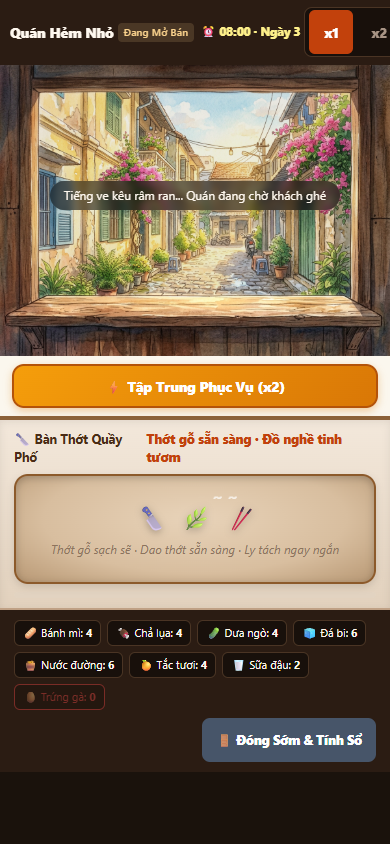
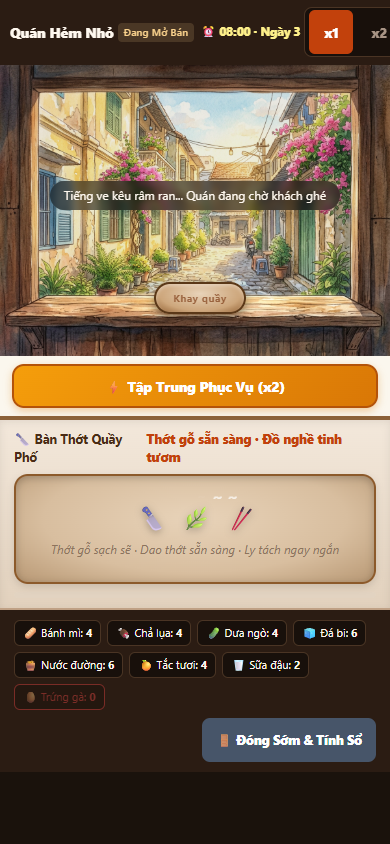
fix(art): implement counter pass tray handoff, eliminate arm overlay, align customer ORDER/RECEIVE/REACT postures, and guarantee single dish visibility

Changed region(s): [[0.3692, 0.3081, 0.6462, 0.4005]]

diff --git a/game/style.css b/game/style.css
@@ -1774,22 +1774,93 @@ button:disabled {
   filter: drop-shadow(0 4px 8px rgba(0, 0, 0, 0.4));
   pointer-events: none;
 }
-.staff-handoff-overlay {
+.teen-sprite {
+  height: 168px;
+}
+
+.customer-actor-wrap.pose-receive {
+  transform: translateX(8px) scale(1.02);
+  transition: transform 0.25s cubic-bezier(0.16, 1, 0.3, 1);
+}
+
+.customer-actor-wrap.pose-react {
+  animation: reactJoy 0.65s cubic-bezier(0.16, 1, 0.3, 1);
+}
+
+@keyframes reactJoy {
+  0% { transform: translateY(0); }
+  35% { transform: translateY(-10px) scale(1.04); }
+  70% { transform: translateY(-3px) scale(1.02); }
+  100% { transform: translateY(0); }
+}
+
+.customer-held-dish {
   position: absolute;
-  bottom: 0;
+  bottom: 46px;
+  left: 108px;
+  z-index: 24;
+  pointer-events: none;
+  filter: drop-shadow(0 4px 10px rgba(0, 0, 0, 0.45));
+}
+.held-dish-img {
+  width: 72px;
+  height: 50px;
+  object-fit: contain;
+}
+
+/* Counter Pass Tray (Khay trên quầy) */
+.counter-pass-tray {
+  position: absolute;
+  bottom: 42px;
+  left: 154px;
+  width: 92px;
+  height: 32px;
+  background: radial-gradient(ellipse at 50% 35%, #e8d3b9 0%, #cda67b 65%, #926031 100%);
+  border: 2px solid #5a3818;
+  border-radius: 16px;
+  box-shadow: 0 4px 10px rgba(0, 0, 0, 0.45), inset 0 2px 4px rgba(255, 255, 255, 0.4);
+  z-index: 24;
+  display: flex;
+  align-items: center;
+  justify-content: center;
+  pointer-events: none;
+  transition: border-color 0.25s ease, box-shadow 0.25s ease;
+}
+.counter-pass-tray.has-dish {
+  border-color: #d97706;
+  box-shadow: 0 4px 14px rgba(217, 119, 6, 0.4), 0 4px 10px rgba(0, 0, 0, 0.45);
+}
+.tray-label {
+  font-size: 10px;
+  font-weight: 700;
+  color: #78350f;
+  opacity: 0.65;
+  letter-spacing: 0.5px;
+}
+.tray-dish-holder {
+  position: absolute;
+  bottom: 10px;
   left: 50%;
   transform: translateX(-50%);
-  z-index: 26;
-  pointer-events: none;
   display: flex;
-  justify-content: center;
-  align-items: flex-end;
+  flex-direction: column;
+  align-items: center;
+  z-index: 25;
 }
-.staff-handoff-img {
-  width: 220px;
-  max-height: 140px;
+.tray-dish-img {
+  width: 76px;
+  height: 52px;
   object-fit: contain;
-  filter: drop-shadow(0 -4px 10px rgba(0, 0, 0, 0.5));
+  filter: drop-shadow(0 4px 8px rgba(0, 0, 0, 0.4));
+}
+.tray-steam-wisp {
+  position: absolute;
+  top: -12px;
+  right: 8px;
+  font-size: 14px;
+  font-weight: 800;
+  color: rgba(255, 255, 255, 0.85);
+  animation: steamRise 1.6s infinite ease-out;
 }
 .customer-contact-shadow {
   position: absolute;

diff --git a/tools/playtest/capture_handoff_3shots.py b/tools/playtest/capture_handoff_3shots.py
@@ -1,0 +1,118 @@
+import asyncio
+import sys
+sys.stdout.reconfigure(encoding='utf-8')
+import threading
+from pathlib import Path
+from http.server import SimpleHTTPRequestHandler, ThreadingHTTPServer
+from playwright.async_api import async_playwright
+
+ROOT = Path(__file__).resolve().parents[2]
+EVIDENCE = ROOT / "docs" / "mobile_gate_evidence" / "pilot"
+EVIDENCE.mkdir(parents=True, exist_ok=True)
+BRAIN = Path(r"C:\Users\truonggiang.vo01\.gemini\antigravity\brain\47b8d4fc-0808-455a-ab31-40cf8e3ca68d")
+
+class QuietHandler(SimpleHTTPRequestHandler):
+    def __init__(self, *args, **kwargs):
+        super().__init__(*args, directory=str(ROOT), **kwargs)
+    def log_message(self, format, *args):
+        pass
+
+server = ThreadingHTTPServer(("127.0.0.1", 8993), QuietHandler)
+threading.Thread(target=server.serve_forever, daemon=True).start()
+
+async def main():
+    async with async_playwright() as p:
+        browser = await p.chromium.launch(
+            executable_path=r"C:\Program Files (x86)\Microsoft\Edge\Application\msedge.exe",
+            headless=True
+        )
+        context = await browser.new_context(
+            viewport={"width": 390, "height": 844},
+            device_scale_factor=2
+        )
+        page = await context.new_page()
+
+        # Load game
+        await page.goto("http://127.0.0.1:8993/game/")
+        await page.wait_for_selector(".screen-home", timeout=5000)
+
+        # Set up Day 1 directly with standard bundle and late opening to encounter Bé Tí
+        await page.evaluate("""() => {
+            localStorage.clear();
+            const s = window.__xomNho.getState();
+            s.shopName = 'Xóm Nhỏ Quán';
+            s.screen = 'MARKET';
+            window.__xomNho.send('BUNDLE_DAY1');
+            window.__xomNho.send('BUY');
+            s.openingTime = 'late_10am';
+            window.__xomNho.send('START_DAY');
+            window.__xomNho.render();
+        }""")
+        await page.wait_for_selector(".street-counter-scene", timeout=5000)
+
+        # Fast forward slightly to 10:00 (minute 120) so Bé Tí arrives
+        await page.evaluate("""() => {
+            const s = window.__xomNho.getState();
+            s.clock = 120;
+            s.spawnedIndex = 2; // Bác Ba & Chị Hai missed early
+            window.__xomNho.send('TICK');
+            window.__xomNho.render();
+        }""")
+
+        # Bé Tí arrives with EXTRA_CHA decision modal
+        await page.wait_for_selector(".decision-modal-backdrop", timeout=5000)
+        # Choose YES (thêm chả cho con)
+        await page.click("button[data-payload='yes']")
+        await page.wait_for_timeout(100)
+
+        # -------------------------------------------------------------
+        # SHOT 1: TRƯỚC GIAO (ORDER state)
+        # Customer at counter, prep dock has ingredients assembling on cutting board
+        # Counter pass tray is empty, customer speech bubble shows order request
+        # -------------------------------------------------------------
+        # Wait until layer2 is active on cutting board
+        await page.wait_for_function("() => document.querySelector('.art-layers-stack') !== null", timeout=5000)
+        await page.wait_for_timeout(150)
+        
+        path_before = EVIDENCE / "shot_handoff_01_truoc_giao.png"
+        await page.screenshot(path=str(path_before))
+        print("Captured 1: Trước giao ->", path_before)
+
+        # -------------------------------------------------------------
+        # SHOT 2: ĐANG NHẬN (RECEIVE state)
+        # Dish is placed on counter pass tray (.counter-pass-tray.has-dish)
+        # Prep cutting board is clean (zero dish duplication)
+        # Customer is reaching over counter (order_02_raise_approved)
+        # Customer speech bubble still shows order dialogue (no thank you yet)
+        # -------------------------------------------------------------
+        await page.wait_for_selector(".counter-pass-tray.has-dish", timeout=5000)
+        path_receiving = EVIDENCE / "shot_handoff_02_dang_nhan.png"
+        await page.screenshot(path=str(path_receiving))
+        print("Captured 2: Đang nhận ->", path_receiving)
+
+        # -------------------------------------------------------------
+        # SHOT 3: SAU NHẬN (REACT state)
+        # Customer has taken the dish (tray is now empty)
+        # Customer is in REACT pose holding dish with beaming smile
+        # Speech bubble now shows thank you dialogue & ✨ Cảm ơn quán!
+        # Floating cash +25.000đ appears
+        # -------------------------------------------------------------
+        await page.wait_for_selector(".customer-held-dish", timeout=5000)
+        path_after = EVIDENCE / "shot_handoff_03_sau_nhan.png"
+        await page.screenshot(path=str(path_after))
+        print("Captured 3: Sau nhận ->", path_after)
+        print("Captured 3: Sau nhận ->", path_after)
+
+        # Copy to brain artifacts
+        if BRAIN.exists():
+            import shutil
+            shutil.copy(path_before, BRAIN / "shot_handoff_01_truoc_giao.png")
+            shutil.copy(path_receiving, BRAIN / "shot_handoff_02_dang_nhan.png")
+            shutil.copy(path_after, BRAIN / "shot_handoff_03_sau_nhan.png")
+            print("Copied all 3 shots to brain artifacts directory.")
+
+        await browser.close()
+        print("ALL 3 SHOTS CAPTURED SUCCESSFULLY FROM LIVE GAMEPLAY!")
+
+if __name__ == "__main__":
+    asyncio.run(main())
